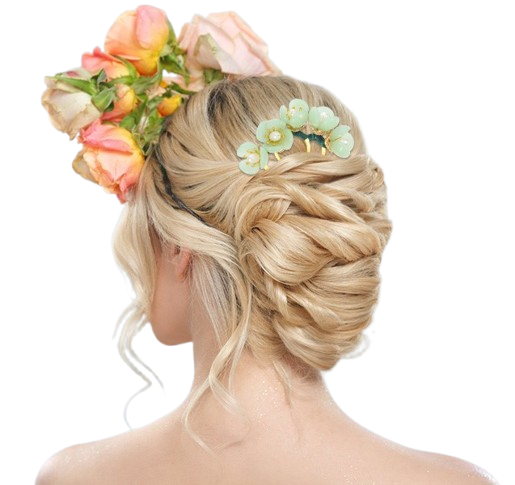
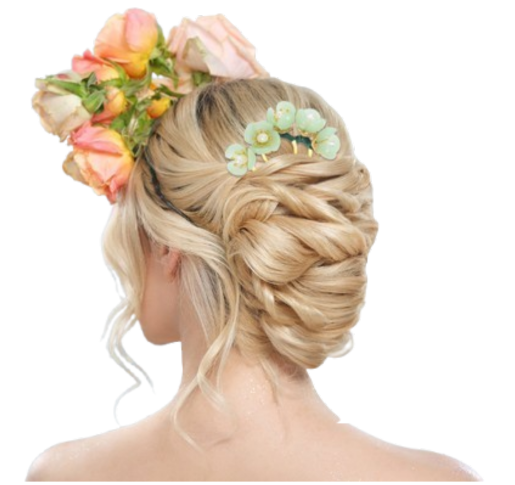
add

Changed region(s): [[0.0311, 0.0, 0.9631, 1.0], [0.3728, 0.8969, 0.4039, 0.9278]]

diff --git a/estilos/telasgrandes.css b/estilos/telasgrandes.css
@@ -262,7 +262,7 @@ header{
     width: 100%;
     height: 100vh;
     background-color: #d3c17a;
-    background-image: url(../imagens/introducao.png);
+    background-image: url(../imagens/mulherloira.png);
     background-size: 500px;
     background-repeat: no-repeat;
     background-position: right 20% bottom;
